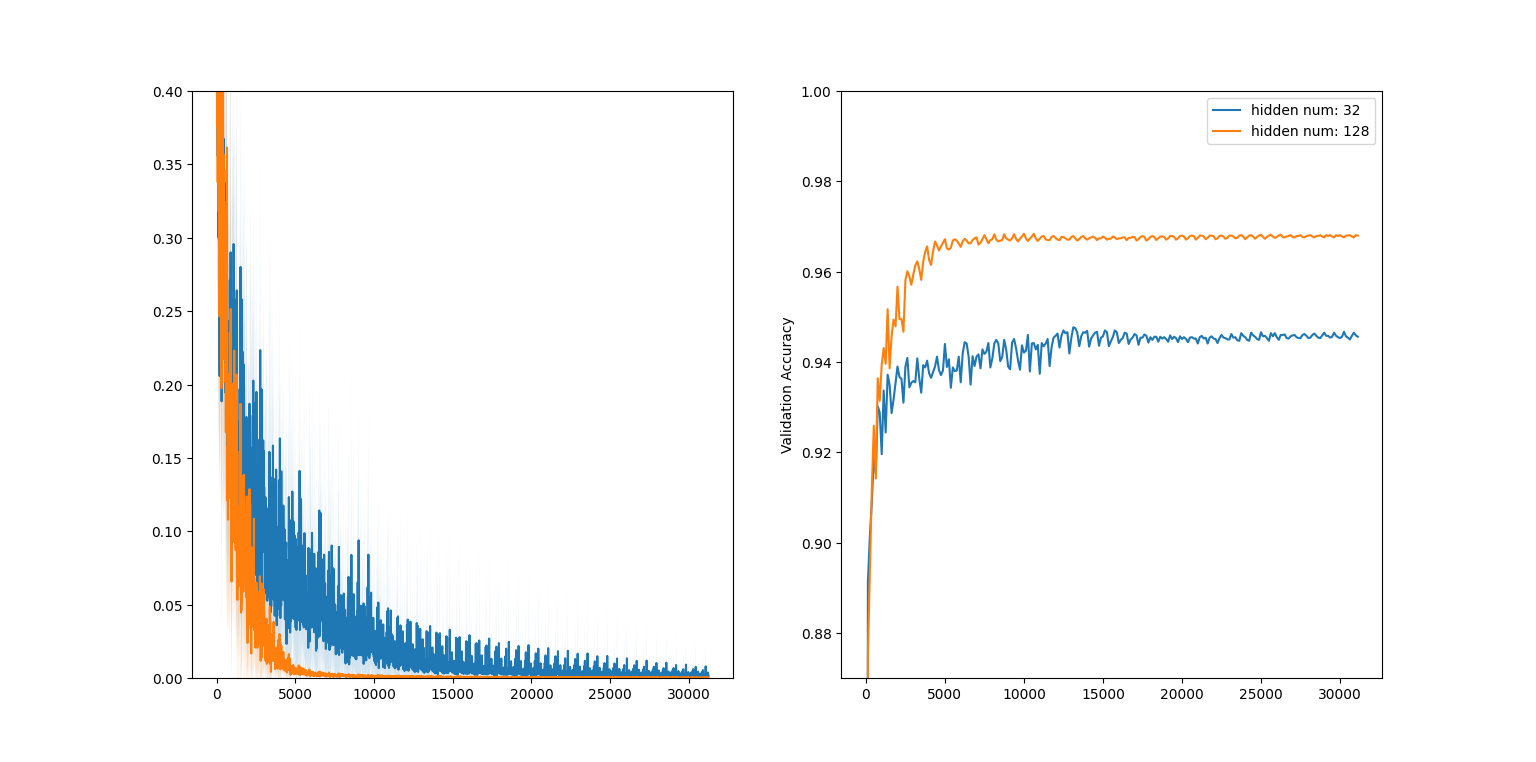
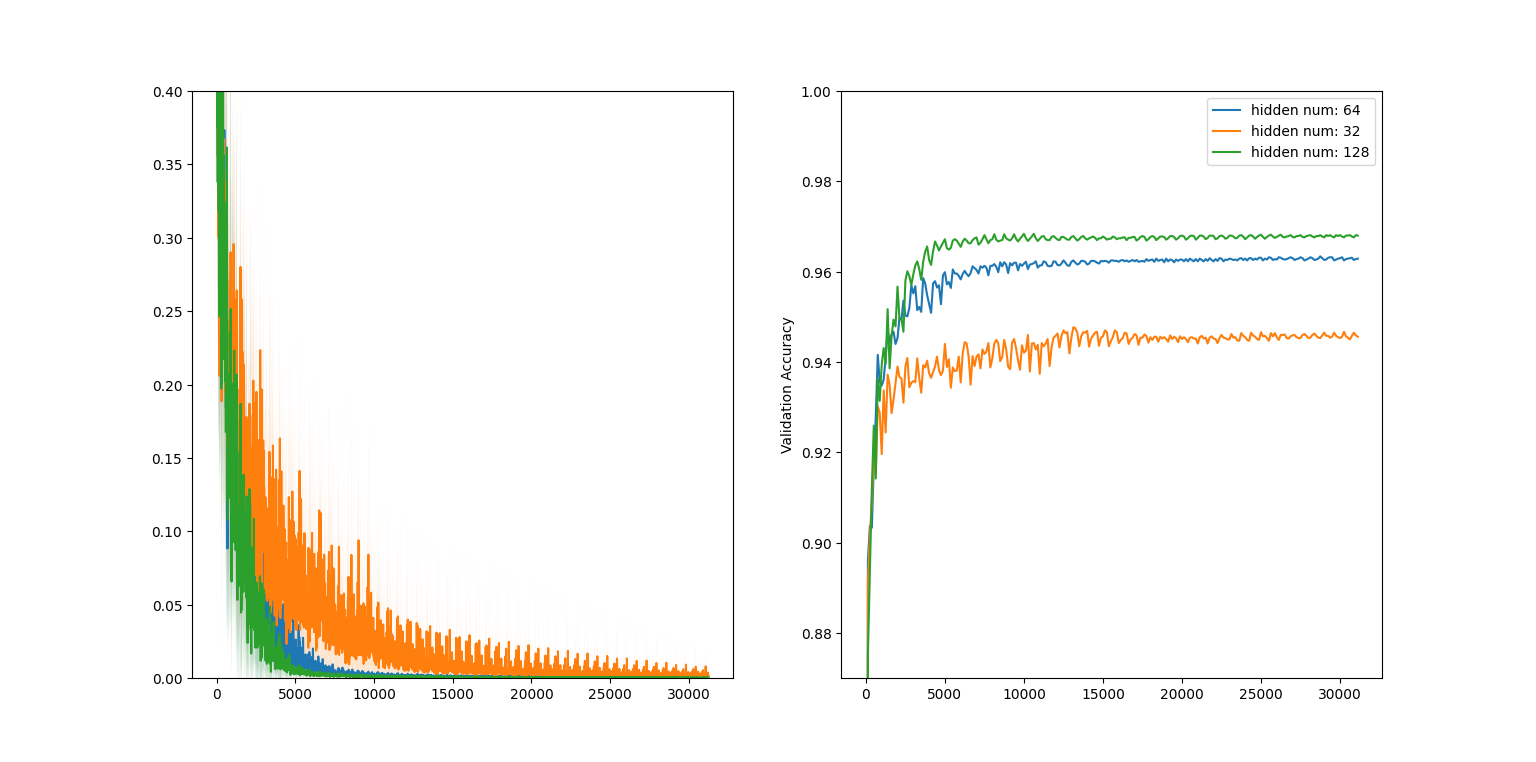
Modification to task4 figures

diff --git a/assignment2/task4ab.py b/assignment2/task4ab.py
@@ -29,21 +29,21 @@ if __name__ == "__main__":
     # Task 4a   -   Too few hidden units
     neurons_per_layer = [32, 10]
 
-    model4a = SoftmaxModel(
-        neurons_per_layer,
-        use_improved_sigmoid,
-        use_improved_weight_init)
-    trainer4a = SoftmaxTrainer(
-        momentum_gamma, use_momentum,
-        model4a, learning_rate, batch_size, shuffle_data,
-        X_train, Y_train, X_val, Y_val,
-    )
-    train_history4a, val_history4a = trainer4a.train(num_epochs)
-
-    np.save("model_task4a_train.npy", train_history4a)
-    np.save("model_task4a_val.npy", val_history4a)
-    # train_history4a = np.load("model_task4a_train.npy", allow_pickle=True)[()]
-    # val_history4a = np.load("model_task4a_val.npy", allow_pickle=True)[()]
+    # model4a = SoftmaxModel(
+    #     neurons_per_layer,
+    #     use_improved_sigmoid,
+    #     use_improved_weight_init)
+    # trainer4a = SoftmaxTrainer(
+    #     momentum_gamma, use_momentum,
+    #     model4a, learning_rate, batch_size, shuffle_data,
+    #     X_train, Y_train, X_val, Y_val,
+    # )
+    # train_history4a, val_history4a = trainer4a.train(num_epochs)
+    #
+    # np.save("model_task4a_train.npy", train_history4a)
+    # np.save("model_task4a_val.npy", val_history4a)
+    train_history4a = np.load("model_task4a_train.npy", allow_pickle=True)[()]
+    val_history4a = np.load("model_task4a_val.npy", allow_pickle=True)[()]
 
     # Example created for comparing with and without shuffling.
     # For comparison, show all loss/accuracy curves in the same plot
@@ -51,24 +51,29 @@ if __name__ == "__main__":
 
     neurons_per_layer = [128, 10]
 
-    model4b = SoftmaxModel(
-        neurons_per_layer,
-        use_improved_sigmoid,
-        use_improved_weight_init)
-    trainer4b = SoftmaxTrainer(
-        momentum_gamma, use_momentum,
-        model4b, learning_rate, batch_size, shuffle_data,
-        X_train, Y_train, X_val, Y_val,
-    )
-    train_history4b, val_history4b = trainer4b.train(num_epochs)
+    # model4b = SoftmaxModel(
+    #     neurons_per_layer,
+    #     use_improved_sigmoid,
+    #     use_improved_weight_init)
+    # trainer4b = SoftmaxTrainer(
+    #     momentum_gamma, use_momentum,
+    #     model4b, learning_rate, batch_size, shuffle_data,
+    #     X_train, Y_train, X_val, Y_val,
+    # )
+    # train_history4b, val_history4b = trainer4b.train(num_epochs)
+    #
+    # np.save("model_task4b_train.npy", train_history4b)
+    # np.save("model_task4b_val.npy", val_history4b)
+    train_history4b = np.load("model_task4b_train.npy", allow_pickle=True)[()]
+    val_history4b = np.load("model_task4b_val.npy", allow_pickle=True)[()]
 
-    np.save("model_task4b_train.npy", train_history4b)
-    np.save("model_task4b_val.npy", val_history4b)
-    # train_history4b = np.load("model_task4b_train.npy", allow_pickle=True)[()]
-    # val_history4b = np.load("model_task4b_val.npy", allow_pickle=True)[()]
+    train_history3c = np.load("model_task3c_momentum_train.npy", allow_pickle=True)[()]
+    val_history3c = np.load("model_task3c_momentum_val.npy", allow_pickle=True)[()]
 
     plt.figure()
     plt.subplot(1, 2, 1)
+    utils.plot_loss(train_history3c["loss"],
+                    "hidden num: 64", npoints_to_average=10)
     utils.plot_loss(train_history4a["loss"],
                     "hidden num: 32", npoints_to_average=10)
     utils.plot_loss(
@@ -76,6 +81,7 @@ if __name__ == "__main__":
     plt.ylim([0, .4])
     plt.subplot(1, 2, 2)
     plt.ylim([0.87, 1])
+    utils.plot_loss(val_history3c["accuracy"], "hidden num: 64")
     utils.plot_loss(val_history4a["accuracy"], "hidden num: 32")
     utils.plot_loss(val_history4b["accuracy"], "hidden num: 128")
     plt.ylabel("Validation Accuracy")

diff --git a/assignment2/task4d_vs_3.py b/assignment2/task4d_vs_3.py
@@ -7,6 +7,9 @@ if __name__ == "__main__":
     train_history3c = np.load("model_task3c_momentum_train.npy", allow_pickle=True)[()]
     val_history3c = np.load("model_task3c_momentum_val.npy", allow_pickle=True)[()]
 
+    train_history4b = np.load("model_task4b_train.npy", allow_pickle=True)[()]
+    val_history4b = np.load("model_task4b_val.npy", allow_pickle=True)[()]
+
     train_history4d = np.load("model_task4d_train.npy", allow_pickle=True)[()]
     val_history4d = np.load("model_task4d_val.npy", allow_pickle=True)[()]
 
@@ -15,13 +18,16 @@ if __name__ == "__main__":
     utils.plot_loss(train_history3c["loss"],
                     "Task 3c)", npoints_to_average=10)
     utils.plot_loss(
+        train_history4b["loss"], "Task 4b)", npoints_to_average=10)
+    utils.plot_loss(
         train_history4d["loss"], "Task 4d)", npoints_to_average=10)
-    # plt.ylim([0, .4])
+    plt.ylim([0, .4])
     plt.ylabel("Loss")
 
     plt.subplot(1, 2, 2)
-    # plt.ylim([0.87, 1])
+    plt.ylim([0.87, 1])
     utils.plot_loss(val_history3c["accuracy"], "Task 3c)")
+    utils.plot_loss(val_history4b["accuracy"], "Task 4b)")
     utils.plot_loss(val_history4d["accuracy"], "Task 4d)")
     plt.ylabel("Validation Accuracy")
     plt.legend()
